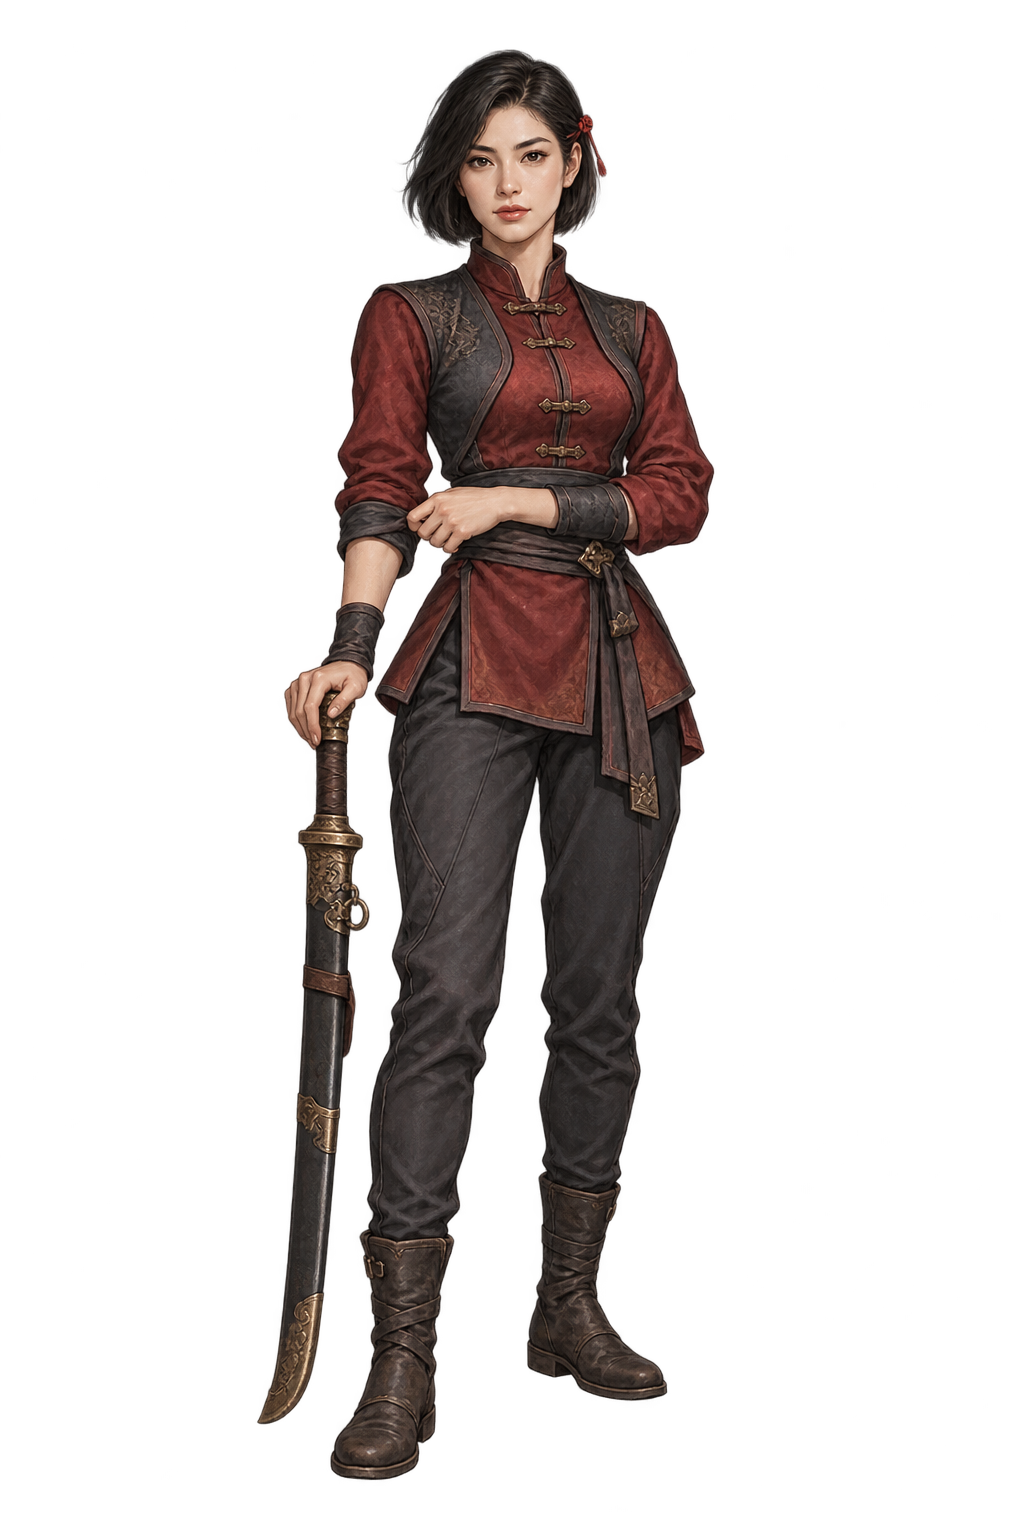
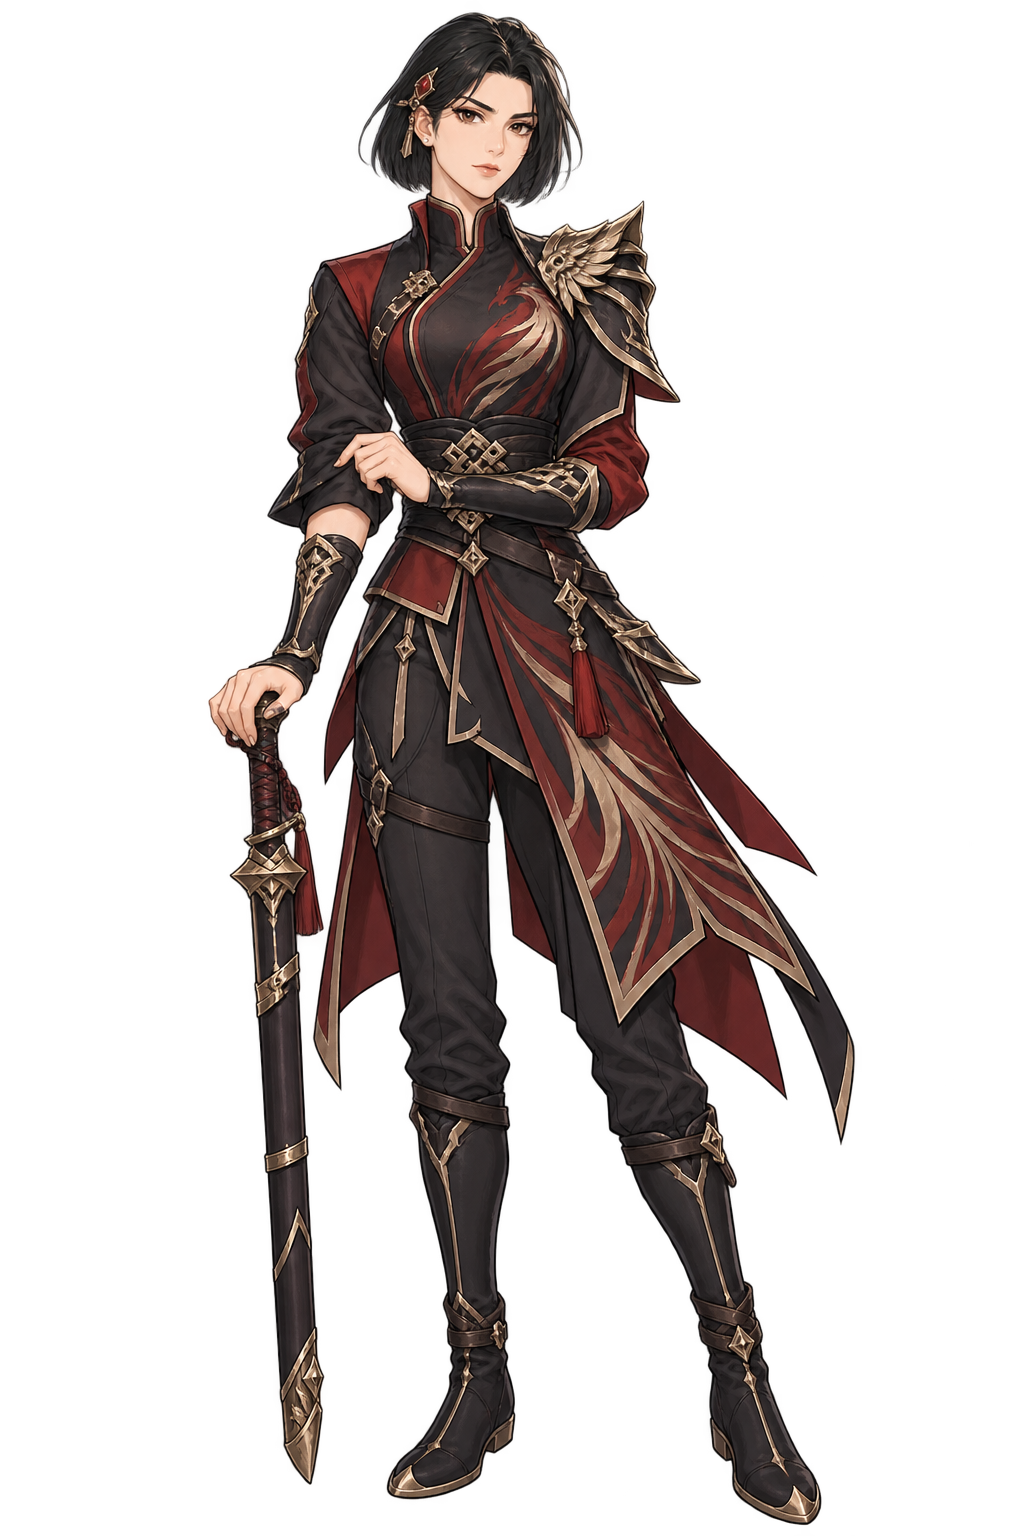
art: adopt approved stylized player portrait set

Changed region(s): [[0.1875, 0.0, 0.8438, 1.0]]

diff --git a/docs/qa/PLAYER-PORTRAITS-20261023.md b/docs/qa/PLAYER-PORTRAITS-20261023.md
@@ -3,7 +3,7 @@
 - Target: dev
 - Branch: feature/player-portraits-20261023
 - Base dev: bc7efd1c4e66c1cb412fab29d404123f5495ea86
-- Status: eight replacement portraits integrated; independent local art/browser QA PASS; latest-head required CI pending in PR #986.
+- Status: v3 male01 manually approved; user authorized the remaining seven at the same stylized costume standard without more approval questions. All eight v3 assets integrated and independently verified locally. Latest-head Required CI pending in PR #986. Prior v2 PASS results below are historical and do not certify v3.
 
 ## Inventory and bounded replacement
 
@@ -17,13 +17,13 @@ New creation mapping uses `assets/characters/player_male_01.webp` through `04` a
 
 Root: image generation and candidate management using the built-in imagegen tool. Integration agent: source copying, lossless conversion, mapping and focused checks. Independent QA agent: adversarial art, alpha, scope and browser review; no generation or integration.
 
-The user rejected the first batch as ordinary-looking and stiff. It is not accepted product art. The replacement batch prioritizes handsome men, beautiful women, protagonist charisma, well-tailored clothes and expressive asymmetrical weight-bearing poses while retaining frontal full-body composition. No magic/glow or excessive god-armor design. All women use modest opaque attire and flat boots. Exact replacement prompt set is retained in `assets/inbox/player-portraits-20261023/prompts-v2.json`. Male01 and female01 serve as style references for the other six, not face or costume templates. No API-key fallback is used.
+The user rejected the first batch as ordinary/stiff and v2 as ordinary costumes/too realistic. Neither is final product art. The user approved v3 male01: stylized clean ink lines and broad cel-shaded shapes, crane-sect shoulder/waist/forearm/coat design and protagonist charisma. The user then authorized generating all remaining seven to that standard without further questions. This set is selection/story artwork; battle requires different poses and its existing assets are not changed here. No magic/glow or excessive god armor; women use modest opaque attire and flat boots. Exact v3 prompts are preserved with the PNG masters; no API-key fallback.
 
 ## Conversion and acceptance
 
 Preserve generated PNG masters in `assets/inbox/player-portraits-20261023/`. Pillow WebP settings: `lossless=True, quality=100, method=6, exact=True`. No crop, resize, trim or alpha modification. Decode and compare every source/output RGBA pixel and canvas dimension. Runtime references use WebP only. Production build regenerates hashed bundles and manifests; release version remains unchanged.
 
-## Validation checkpoint
+## Historical v2 validation checkpoint (superseded art)
 
 All eight final candidates passed independent individual art review. Four reference-generated candidates were rejected for same-face/costume similarity and regenerated without image references (male02, male03, female02, female04). Rejected batches remain local artifacts, not production assets.
 
@@ -36,3 +36,11 @@ Local `v173.20-startup-loader.test.js` cannot finish because ImageMagick `identi
 Independent final art, pixel and browser results are recorded by the separate reviewer in `PLAYER-PORTRAITS-20261023-qa.json`. Actual local Chrome at PC 1440×900, 9:16 360×640 and long-screen 390×844 passed 24 real pointer selections. The final boot recheck confirms all eight HTTP200 + decode results, name entry, next/back and reload. No Runtime exception or non-cancelled portrait failure. Existing favicon404 and cancelled speculative/reload requests are separated from successful image evidence. This uses an isolated empty-account transport fixture, not real Firebase writes or physical phones.
 
 PR: https://github.com/tf00913225-alt/my-game/pull/986 . Latest Head, CI and deployment checkpoint live in the PR body. No current claim of deployed acceptance.
+
+## v3 adopted asset checkpoint
+
+The approved male01 is paired with seven new stylized sect-costume characters: male02 bronze/ox geometric blade hero, male03 jade/bamboo fan scholar, male04 silver/cloud low-haired swordsman, female01 silver/crane sword heroine, female02 bronze/phoenix short-haired blade heroine, female03 jade/orchid fan heroine, female04 silver/moon-orchid braided sword heroine. Artwork themes are costume motifs, not elemental abilities. One v3 male04 candidate was independently rejected as a purple repaint of male01 and regenerated with different hair, cloud motif, round clasp and horizontal sheathed-sword pose.
+
+All eight adopted v3 images passed individual independent art review against the user's approved male01. All8 PNG/WebP pairs are 1024×1536, alpha 0..254, exact decoded RGBA; total lossless WebP 9,484,070 bytes. New hashes live in `PLAYER-PORTRAITS-20261023-assets.json` (artRevision v3). `prompts-v3.json` preserves approved/batch/correction prompts. Build, build check, eight-choice mapping and diff checks pass; unchanged boot is `build/boot-core.bbbaf3175142.js`.
+
+Independent v3 full-set pixel/hash/composite/browser validation PASS is recorded in the QA JSON as `local-v3-art-and-browser-pass`. Actual local Chrome at1440×900/360×640/390×844 repeated all24 true pointer selections and eight HTTP200+decodes, name/next/back/reload. New v3 screenshots were captured after startup fade-out. No Runtime exception/non-cancelled portrait failure. Limits remain physical phone, real Firebase, deployed SHA and persistent production cache, which are not certified by this local fixture. Historical v2 screenshots are not used for v3 acceptance.
